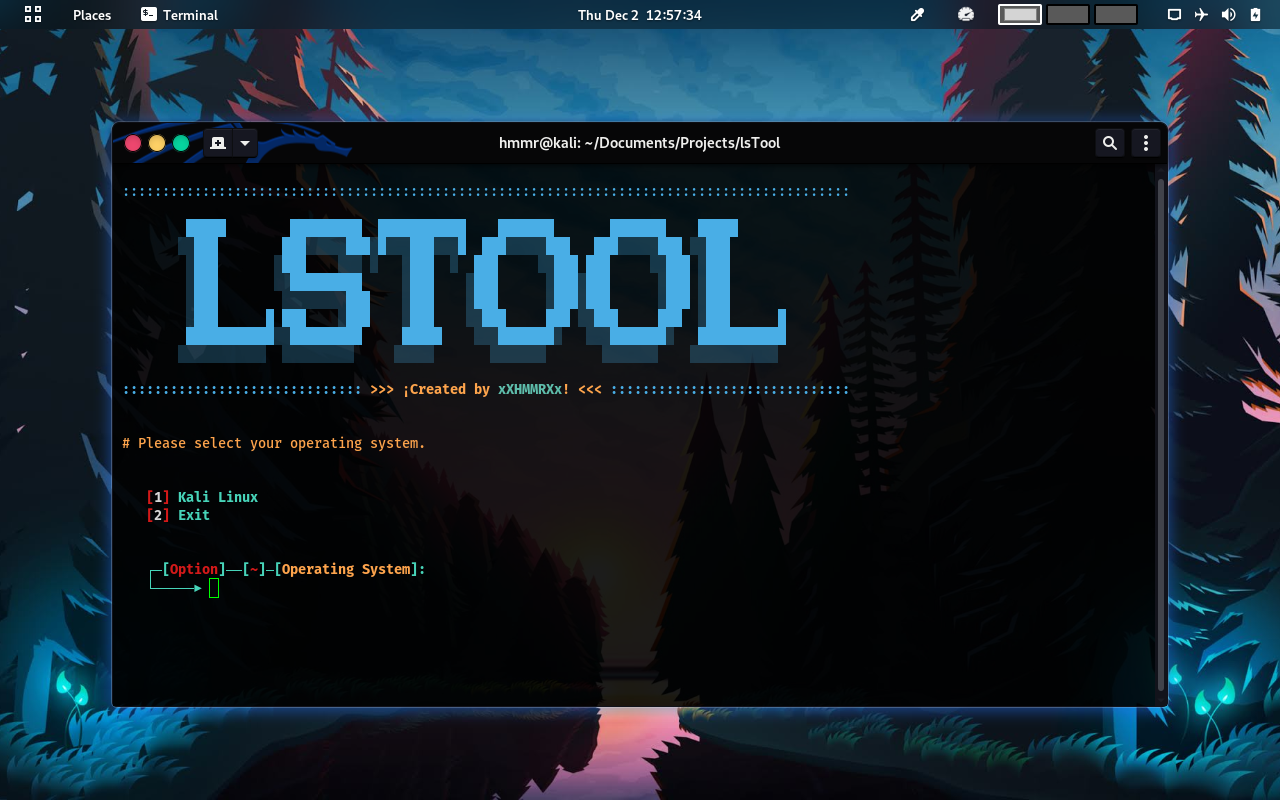
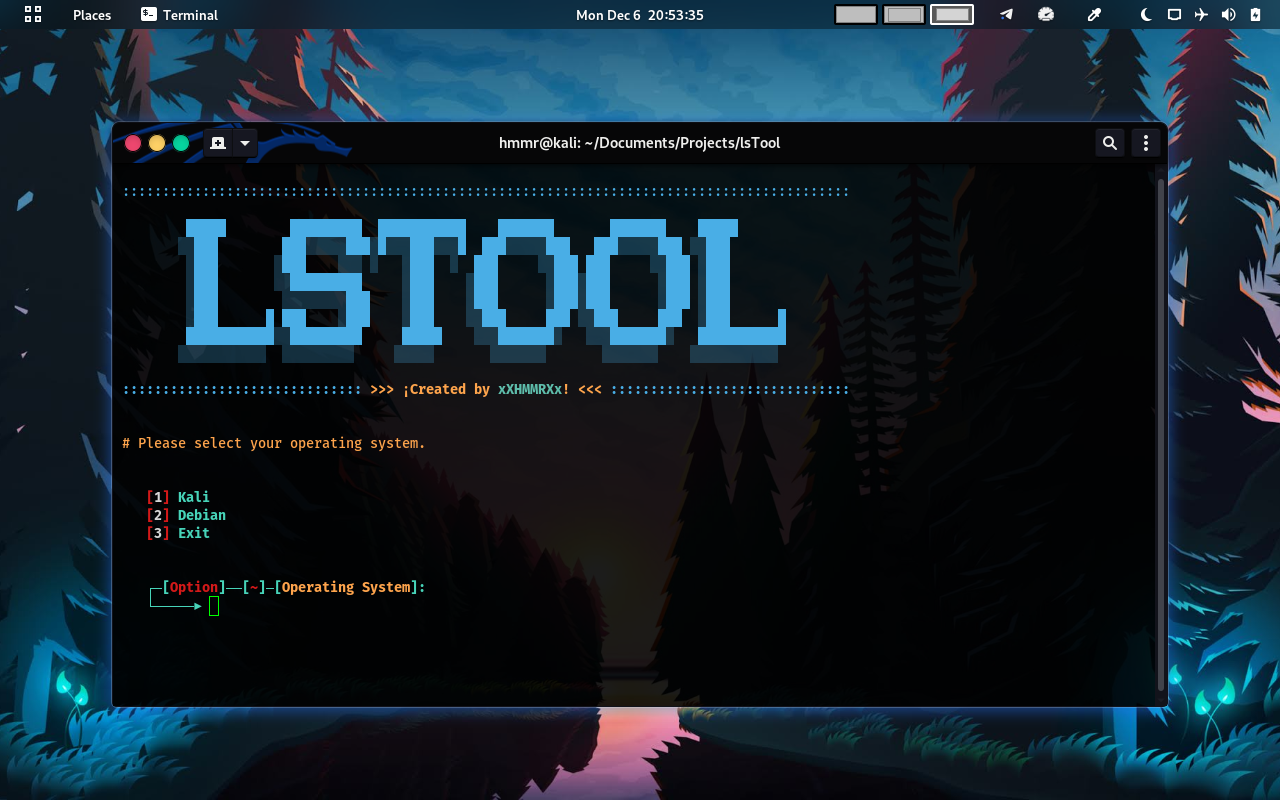
updated readme.md

Changed region(s): [[0.125, 0.625, 0.3438, 0.75], [0.625, 0.0, 0.9062, 0.0312], [0.4375, 0.0, 0.5625, 0.0312]]

diff --git a/README.md b/README.md
@@ -12,9 +12,10 @@ lsTool is a software created for the sole purpose of automating and facilitating
 
 ## _**List of supported GNU/Linux distributions and desktops**_
 
-| OS                            | Desktops                        |
-| ----------------------------- | ------------------------------- |
-| [Kali](https://www.kali.org/) | [Gnome](https://www.gnome.org/) |
+| OS                                | Desktops                        |
+| --------------------------------- | ------------------------------- |
+| [Kali](https://www.kali.org/)     | [Gnome](https://www.gnome.org/) |
+| [Debian](https://www.debian.org/) | [Gnome](https://www.gnome.org/) |
 
 ## _**Requirements**_
 
@@ -109,7 +110,7 @@ Just select option 2 from the main menu and the system will do the rest.
 
 ### _**Kali**_
 
-Test performed on the default kali linux installation.
+Test performed on the default Kali installation.
 
 ![img](src/assets/readme/test-kali-gnome-01.png)
 
@@ -122,6 +123,24 @@ Test performed on the default kali linux installation.
 #
 
 ![img](src/assets/readme/test-kali-gnome-03.png)
+
+#
+
+### _**Debian**_
+
+Test performed on the default Debian installation.
+
+![img](src/assets/readme/test-debian-gnome-01.png)
+
+#
+
+### _**Obtained result**_
+
+![img](src/assets/readme/test-debian-gnome-02.png)
+
+#
+
+![img](src/assets/readme/test-debian-gnome-03.png)
 
 #
 
